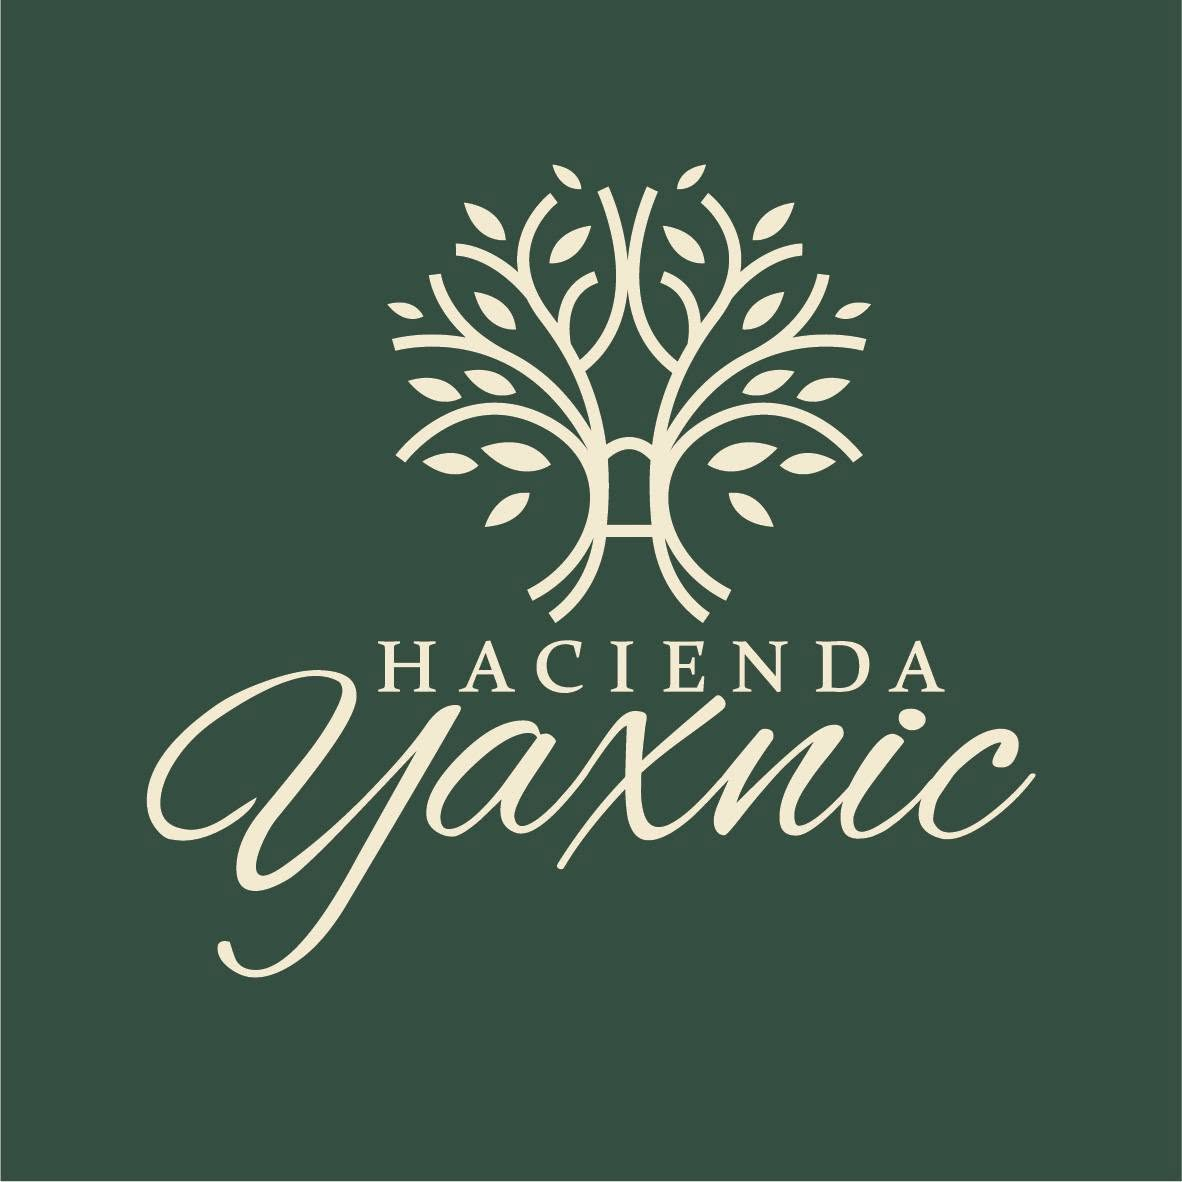
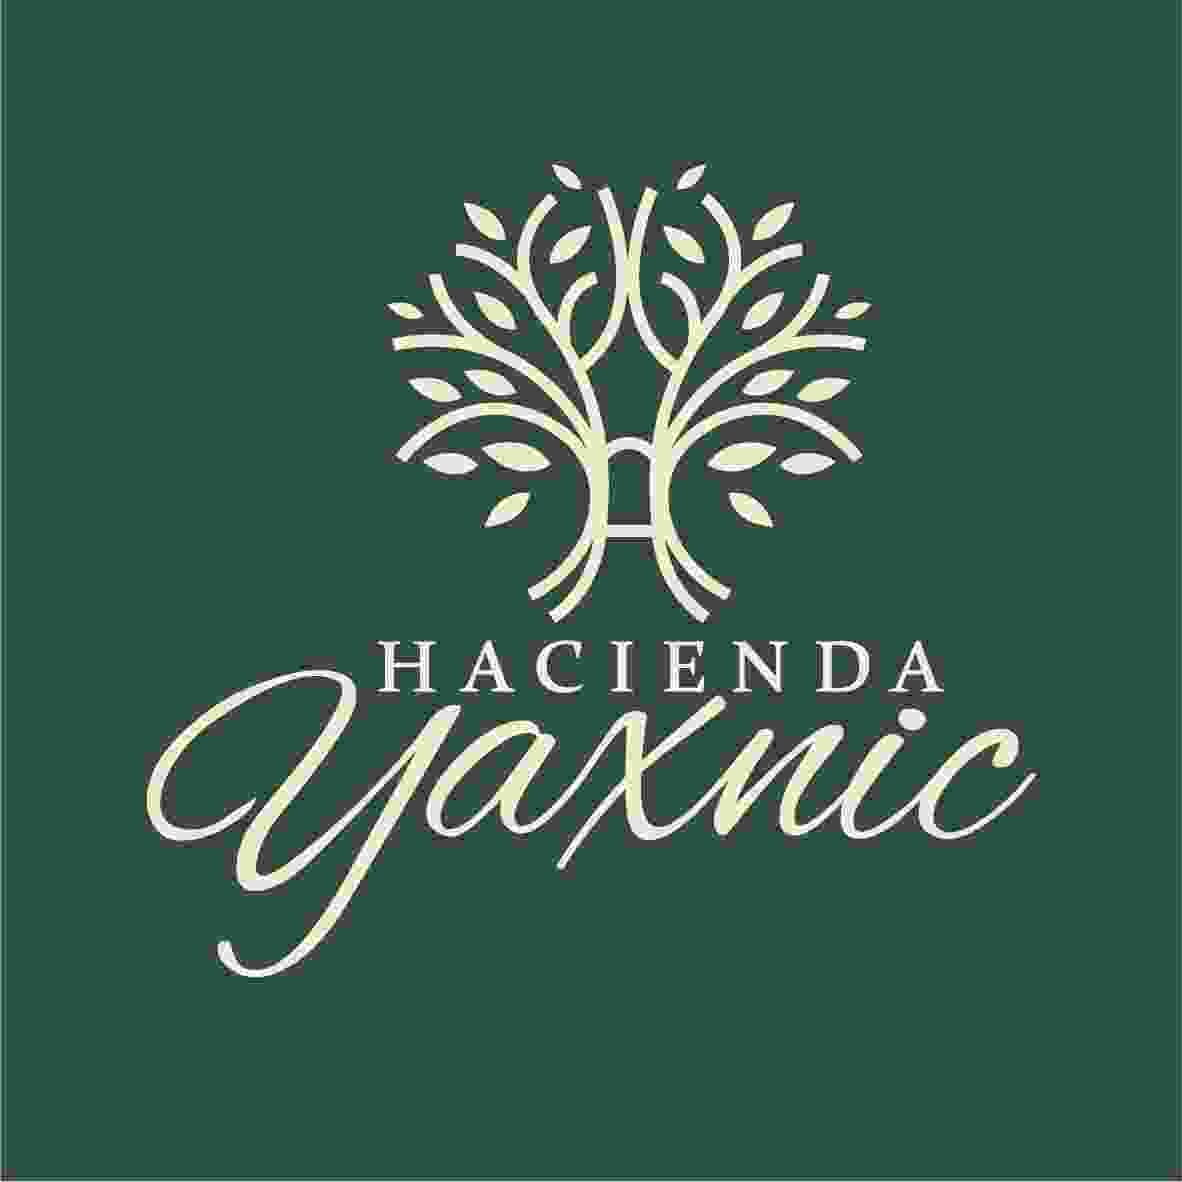
audit update

Changed region(s): [[0.1218, 0.1218, 0.8832, 0.8528], [0.0, 0.9746, 1.0, 1.0], [0.3959, 0.4264, 0.4264, 0.4569]]

diff --git a/chamber/scripts/directory.js b/chamber/scripts/directory.js
@@ -53,7 +53,7 @@ function displayMembers(members) {
             <h2>${member['company-name']}</h2>
             <p class="buss-tag">${member['tag-line']}</p>
             <div class="member-data-container">
-                <img src="${member['image-path']}" alt="Business Image">
+                <img src="${member['image-path']}" alt="Business Image" loading="lazy">
                 <div class="member-info">
                     <p><strong>Email: </strong><span><a href="mailto:${member.email}">${member.email}</a></span></p>
                     <p><strong>Phone: </strong><span><a href="tel:${member.phone}">${member.phone}</a></span></p>

diff --git a/chamber/styles/small.css b/chamber/styles/small.css
@@ -113,7 +113,7 @@ nav ul li.active a {
 }
 
 nav ul li:hover {
-    background-color: var(--sea-green);
+    background-color: var(--rich-mahogany);
     box-shadow: 0 2px 6px rgba(0, 0, 0, 0.3);
 }
 